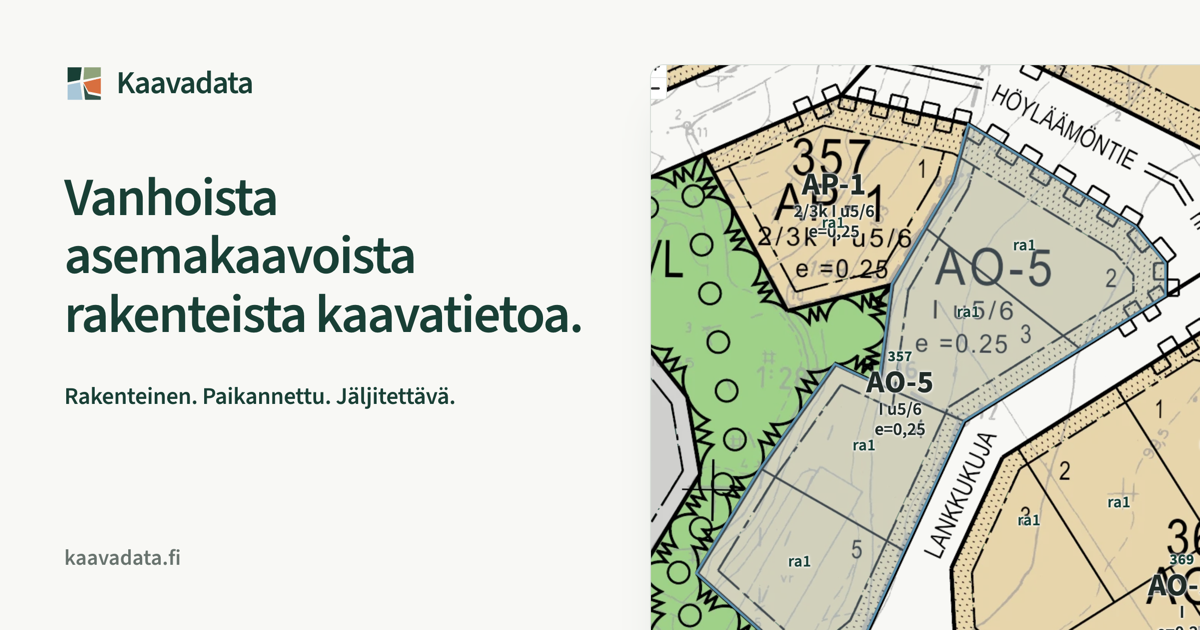
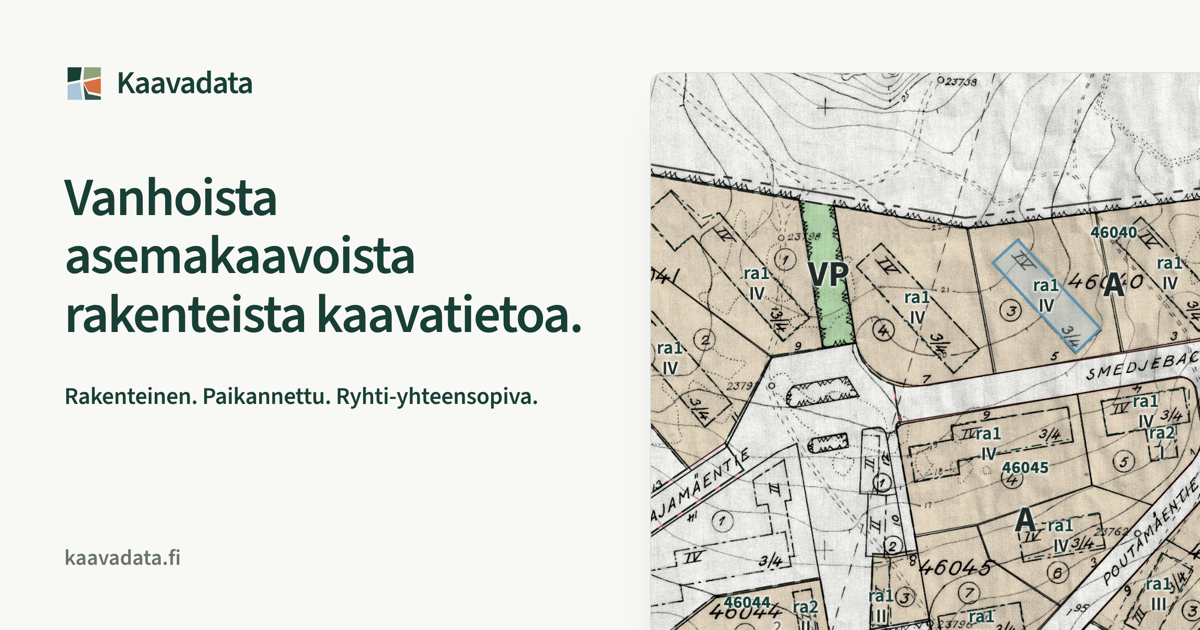
New copy, the 1957 Pajamäki plan as the screenshot, mikko@kaavadata.fi (#2)
Mikko's copy (inputs, national data model, Ryhti); the screenshot is the cleaned-up UI on Helsinki's 4159 (1957, scanned) with sheet and interpretation together; contact mikko@kaavadata.fi.

diff --git a/index.html b/index.html
@@ -4,7 +4,7 @@
 <meta charset="utf-8">
 <meta name="viewport" content="width=device-width, initial-scale=1">
 <title>Kaavadata – rakenteista kaavatietoa vanhoista asemakaavoista</title>
-<meta name="description" content="Kaavadata muodostaa alkuperäisistä asemakaava-aineistoista rakenteisen, paikkatietoon sidotun kuvauksen kaavan sisällöstä – jäljitettävästi takaisin alkuperäiseen kaavaan.">
+<meta name="description" content="Kaavadata muuntaa asemakaavan alkuperäisaineiston – skannatun kaavakartan, PDF:n tai CAD-aineiston – kansallisen kaavatietomallin mukaiseksi rakenteiseksi paikkatiedoksi, joka voidaan viedä Ryhti-järjestelmään.">
 <link rel="canonical" href="https://kaavadata.fi/">
 <meta name="theme-color" content="#f8f8f5">
 
@@ -13,7 +13,7 @@
 <meta property="og:locale" content="fi_FI">
 <meta property="og:url" content="https://kaavadata.fi/">
 <meta property="og:title" content="Kaavadata – rakenteista kaavatietoa vanhoista asemakaavoista">
-<meta property="og:description" content="Alkuperäisistä asemakaava-aineistoista rakenteinen, paikkatietoon sidottu kuvaus kaavan sisällöstä. Rakenteinen. Paikannettu. Jäljitettävä.">
+<meta property="og:description" content="Skannatusta kaavakartasta, PDF:stä tai CAD-aineistosta kansallisen kaavatietomallin mukaista, Ryhti-järjestelmään vietävää paikkatietoa. Rakenteinen. Paikannettu. Ryhti-yhteensopiva.">
 <meta property="og:image" content="https://kaavadata.fi/assets/og.png">
 <meta property="og:image:width" content="1200">
 <meta property="og:image:height" content="630">
@@ -34,7 +34,7 @@
   "name": "Kaavadata",
   "url": "https://kaavadata.fi/",
   "logo": "https://kaavadata.fi/assets/apple-touch-icon.png",
-  "email": "info@kaavadata.fi",
+  "email": "mikko@kaavadata.fi",
   "description": "Rakenteista kaavatietoa vanhoista asemakaavoista."
 }
 </script>
@@ -51,54 +51,36 @@
       </svg>
       <span>Kaavadata</span>
     </a>
-    <a class="button" href="mailto:info@kaavadata.fi">Ota yhteyttä</a>
+    <a class="button" href="mailto:mikko@kaavadata.fi">Ota yhteyttä</a>
   </div>
 </header>
 
 <main>
   <section class="hero wrap">
     <h1>Vanhoista asemakaavoista rakenteista kaavatietoa.</h1>
-    <p class="lead">Kaavadata muodostaa alkuperäisistä asemakaava-aineistoista rakenteisen, paikkatietoon sidotun kuvauksen
-      kaavan sisällöstä.</p>
-    <p>Tuloksena syntyvät esimerkiksi kaavakohteet, käyttötarkoitukset, rakennusoikeudet, kerrosluvut, rakennusalat ja
-      muut määräykset – jäljitettävästi takaisin alkuperäiseen kaavaan.</p>
-    <p class="motto">Rakenteinen. Paikannettu. Jäljitettävä.</p>
+    <p class="lead">Kaavadata muuntaa asemakaavan alkuperäisaineiston – skannatun kaavakartan, PDF:n tai CAD-aineiston –
+      kansallisen kaavatietomallin mukaiseksi rakenteiseksi paikkatiedoksi, joka voidaan viedä Ryhti-järjestelmään.</p>
+    <p>Jokainen tulkinta säilyy jäljitettävänä alkuperäiseen kaava-aineistoon.</p>
+    <p class="motto">Rakenteinen. Paikannettu. Ryhti-yhteensopiva.</p>
   </section>
 
   <div class="wrap">
-    <ul class="points">
-      <li>
-        <h2>Rakenteinen</h2>
-        <p>Kaavan sisältö kansallisen kaavatietomallin mukaisina kohteina ja määräyksinä.</p>
-      </li>
-      <li>
-        <h2>Paikannettu</h2>
-        <p>Määräykset sidottuna oikeisiin alueisiin, rakennusaloihin ja muihin kaavakohteisiin.</p>
-      </li>
-      <li>
-        <h2>Jäljitettävä</h2>
-        <p>Jokaisen tulkinnan yhteydessä tieto siitä, mihin alkuperäisen kaavan kohtaan se perustuu.</p>
-      </li>
-    </ul>
-
     <figure class="shot">
-      <a href="assets/kaavadata-nakyma-2400.webp" aria-label="Avaa kuvakaappaus täysikokoisena">
-        <img src="assets/kaavadata-nakyma-1200.webp"
-             srcset="assets/kaavadata-nakyma-1200.webp 1200w, assets/kaavadata-nakyma-2400.webp 2400w"
+      <a href="assets/kaavadata-nakyma-2560.webp" aria-label="Avaa kuvakaappaus täysikokoisena">
+        <img src="assets/kaavadata-nakyma-1280.webp"
+             srcset="assets/kaavadata-nakyma-1280.webp 1280w, assets/kaavadata-nakyma-2560.webp 2560w"
              sizes="(max-width: 1168px) calc(100vw - 32px), 1120px"
-             width="2400" height="1500" loading="lazy" decoding="async"
-             alt="Kaavadatan näkymä: alkuperäinen asemakaavakartta, jonka päällä tulkitut kaavakohteet. Sivupaneelissa valitun korttelialueen määräykset, kullakin lähde ja luotettavuus.">
+             width="2560" height="1760" loading="lazy" decoding="async"
+             alt="Kaavadatan näkymä: skannattu asemakaavakartta vuodelta 1957 ja sen päällä tulkitut kaavakohteet. Sivupaneelissa valitun rakennusalan kohta alkuperäisestä kaavakartasta ja sen kaavamääräykset, kullakin lähde ja luotettavuus.">
       </a>
-      <figcaption>Alkuperäinen kaavakartta ja sen päälle tulkitut kaavakohteet. Jokaisella määräyksellä näkyy, mihin
-        kaavan kohtaan tulkinta perustuu ja kuinka luotettava se on.</figcaption>
+      <figcaption>Alkuperäinen kaava, tulkitut kaavakohteet ja niiden määräykset samassa näkymässä. Jokaisesta tulkinnasta
+        näkyy, mihin lähdeaineiston kohtaan se perustuu.</figcaption>
     </figure>
 
     <section class="model" aria-labelledby="ryhti">
-      <div>
-        <p class="label">Ryhti</p>
-        <h2 id="ryhti">Yhteensopiva kansallisen kaavatietomallin kanssa</h2>
-      </div>
-      <p>Kaavadata on rakennettu Ryhti-järjestelmän käyttämien kaavakohteiden, määräysten ja koodistojen pohjalle.</p>
+      <h2 id="ryhti">Ryhti-yhteensopiva aineisto</h2>
+      <p>Kaavadata tuottaa kaavakohteet ja kaavamääräykset kansallisen kaavatietomallin mukaisesti. Määräysten lajit ja
+        koodiarvot ovat Ryhti-järjestelmän koodistojen mukaisia, ja aineisto validoidaan Ryhdin omalla rajapinnalla.</p>
     </section>
   </div>
 </main>
@@ -106,7 +88,7 @@
 <footer class="site-footer">
   <div class="wrap">
     <p>Kaavadata on kehitysvaiheessa.</p>
-    <a href="mailto:info@kaavadata.fi">info@kaavadata.fi</a>
+    <a href="mailto:mikko@kaavadata.fi">mikko@kaavadata.fi</a>
   </div>
 </footer>
 

diff --git a/styles.css b/styles.css
@@ -161,57 +161,10 @@ a:focus-visible {
   letter-spacing: -0.01em;
 }
 
-/* Three points */
-
-.points {
-  display: grid;
-  grid-template-columns: repeat(3, minmax(0, 1fr));
-  gap: 32px;
-  margin: 0;
-  padding: 0;
-  list-style: none;
-}
-
-.points li {
-  padding-top: 18px;
-  border-top: 1px solid var(--kd-border);
-  position: relative;
-}
-
-/* a short rule in the logo's colours above each point */
-.points li::before {
-  content: "";
-  position: absolute;
-  top: -1px;
-  left: 0;
-  width: 32px;
-  height: 3px;
-  background: var(--kd-forest);
-}
-
-.points li:nth-child(2)::before {
-  background: var(--kd-moss);
-}
-
-.points li:nth-child(3)::before {
-  background: var(--kd-sky);
-}
-
-.points h2 {
-  font-size: 19px;
-  letter-spacing: -0.015em;
-}
-
-.points p {
-  margin-top: 6px;
-  color: var(--kd-muted);
-  font-size: 16px;
-}
-
 /* Screenshot */
 
 .shot {
-  margin: 72px 0 0;
+  margin: 0;
 }
 
 .shot a {
@@ -248,15 +201,6 @@ a:focus-visible {
   border-bottom: 1px solid var(--kd-border);
 }
 
-.label {
-  margin-bottom: 8px;
-  color: var(--kd-muted);
-  font-size: 12px;
-  font-weight: 600;
-  letter-spacing: 0.04em;
-  text-transform: uppercase;
-}
-
 .model h2 {
   font-size: 24px;
   line-height: 1.25;
@@ -264,7 +208,6 @@ a:focus-visible {
 }
 
 .model p {
-  align-self: end;
   font-size: 18px;
 }
 
@@ -325,15 +268,6 @@ a:focus-visible {
 
   .motto {
     margin-top: 24px;
-  }
-
-  .points {
-    grid-template-columns: 1fr;
-    gap: 24px;
-  }
-
-  .shot {
-    margin-top: 48px;
   }
 
   .model {

diff --git a/README.md b/README.md
@@ -7,7 +7,7 @@ repository root (`CNAME` holds the domain, `.nojekyll` turns off Jekyll).
 |---|---|
 | `index.html` | the page, in Finnish; title, description and share-card tags in its head |
 | `styles.css` | the Kaavadata brand v0.2 tokens (`--kd-*`, from kaava-decoder's `brand/kaavadata.css`) and the page's own layout |
-| `assets/kaavadata-nakyma-*.webp` | the screenshot of the Kaavadata UI, 1200 and 2400 px wide |
+| `assets/kaavadata-nakyma-*.webp` | the screenshot of the Kaavadata UI, 1280 and 2560 px wide |
 | `assets/og.png` | the 1200 × 630 card shown when the link is shared |
 | `assets/kaavadata-logo.svg`, `assets/apple-touch-icon.png` | the mark, also the favicon and the home-screen icon |
 
